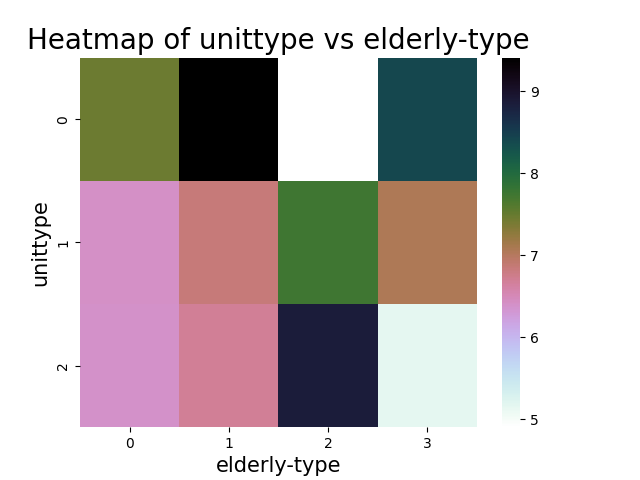
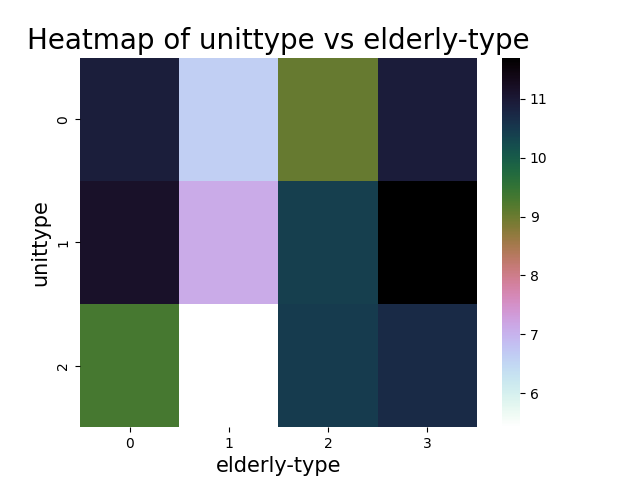
update b14508

diff --git a/b14508elderly_living_simulation/i1simulate_elder_with_bound.py b/b14508elderly_living_simulation/i1simulate_elder_with_bound.py
@@ -1,3 +1,4 @@
+
 import numpy as np
 import matplotlib.pyplot as plt
 import matplotlib.animation as animation
@@ -100,6 +101,8 @@ def all_walkable(generated_map):
 
 def single_turn(unittype, generated_map, oldman):
     walkables = all_walkable(generated_map)
+    # print('$'*20, walkables)
+    # print(len(walkables))
     # welcome = colored('#'*10+' This turn generated_map:'+'#'*10, 'red', attrs=['reverse', 'blink'])
     # print(welcome, '\n')
     print('-'*10, 'run new simulation turn', '-'*10, '\n')
@@ -107,19 +110,25 @@ def single_turn(unittype, generated_map, oldman):
     start_grid = Grid(2, 1)
     end_grid = Grid(2, 5)
     if oldman.behavior_type == 0 :
-        s = walkables[random.randint(0, len(walkables)/2)]
-        e = walkables[random.randint(len(walkables)/2, len(walkables)-1)]
+        s = walkables[random.randint(0, len(walkables)//2)]
+        e = walkables[random.randint(len(walkables)//2, len(walkables)-1)]
         start_grid = Grid(s[0], s[1])
         end_grid = Grid(e[0], e[1])   
     if oldman.behavior_type == 1:
-        s = walkables[random.randint(0, len(walkables)/2)]
-        e = walkables[random.randint(len(walkables)/2, len(walkables)-1)]
+        s = walkables[random.randint(0, len(walkables)//2)]
+        e = walkables[random.randint(len(walkables)//2, len(walkables)-1)]
         start_grid = Grid(s[0], s[1])
-        end_grid = Grid(2, 8)   
+        if random.randint(0, 4) > 2:
+            end_grid = Grid(beds[unittype][0], beds[unittype][1])
+        else:
+            end_grid = Grid(e[0], e[1]) 
     if oldman.behavior_type == 2:
-        s = walkables[random.randint(0, len(walkables)/2)]
-        e = walkables[random.randint(len(walkables)/2, len(walkables)-1)]
-        start_grid = Grid(beds[unittype][0], beds[unittype][1])
+        s = walkables[random.randint(0, len(walkables)//2)]
+        e = walkables[random.randint(len(walkables)//2, len(walkables)-1)]
+        if random.randint(0, 4) > 2:
+            start_grid = Grid(bathrooms[unittype][0], bathrooms[unittype][1])
+        else:
+            start_grid = Grid(s[0], s[1])
         end_grid = Grid(e[0], e[1]) 
     if oldman.behavior_type == 3 :
         s = walkables[random.randint(0, len(walkables)//3)]
@@ -170,7 +179,7 @@ def visual_to_png(res):
 def main():
 
 
-    simulate_num = 40
+    simulate_num = 160
 
     elderly_types = [None, None, None, None]
     # living room type
@@ -181,10 +190,10 @@ def main():
     类型四：家务型老人：以进行家务行为为主，占比较小。
 
     '''
-    elderly_types[0] = int(simulate_num * 0.7)
-    elderly_types[1] = int(simulate_num * 0.2)
-    elderly_types[2] = int(simulate_num * 0.05)
-    elderly_types[3] = int(simulate_num * 0.05)
+    elderly_types[0] = int(simulate_num * 0.25)
+    elderly_types[1] = int(simulate_num * 0.25)
+    elderly_types[2] = int(simulate_num * 0.25)
+    elderly_types[3] = int(simulate_num * 0.25)
 
     print('elderly_types=', elderly_types)
     mydict = {}
@@ -199,7 +208,7 @@ def main():
             for j in range(elderly_types[elderly_type]):
                 score = single_turn(i, generated_map, oldman)
                 scores.append(score)
-                time.sleep(random.uniform(0.1, 0.5))
+                # time.sleep(random.uniform(0.1, 0.5))
             mydict[i, elderly_type] = scores
 
     print('\n'*3)

diff --git a/b14508elderly_living_simulation/my_unittype.py b/b14508elderly_living_simulation/my_unittype.py
@@ -7,11 +7,22 @@ beds = []
 # 卫生间
 #---------------
 type_0 = [
-        [0, 0, 0, 0, 1, 0, 1, 1, 0],
-        [0, 0, 0, 0, 1, 0, 1, 1, 0],
-        [0, 0, 0, 0, 1, 0, 0, 0, 0],
-        [1, 1, 0, 0, 1, 0, 0, 0, 0],
-        [0, 0, 0, 0, 0, 0, 0, 1, 0],
+        [1, 1, 1, 1, 1, 1, 1, 1, 1, 1],
+        [1, 0, 0, 0, 1, 0, 0, 0, 0, 1],
+        [1, 0, 0, 0, 1, 0, 0, 0, 0, 1],
+        [1, 0, 0, 0, 0, 0, 0, 1, 1, 1],
+        [1, 0, 0, 0, 0, 0, 0, 1, 1, 1],
+		[1, 1, 1, 0, 1, 0, 0, 0, 0, 1],
+		[1, 0, 0, 0, 0, 0, 0, 1, 1, 1],
+		[1, 1, 0, 0, 0, 0, 0, 0, 0, 1],
+		[1, 1, 0, 0, 0, 0, 0, 0, 0, 1],
+		[1, 1, 0, 0, 0, 0, 0, 0, 0, 1],
+		[1, 1, 0, 0, 0, 0, 0, 0, 0, 1],
+		[1, 0, 0, 0, 0, 0, 0, 0, 0, 1],
+		[1, 0, 1, 0, 0, 0, 1, 0, 0, 1],
+		[1, 0, 1, 0, 0, 0, 1, 0, 0, 1],
+		[1, 0, 1, 0, 0, 0, 1, 0, 0, 1],
+		[1, 0, 1, 1, 1, 1, 1, 1, 1, 1],
     ]
 
 
@@ -21,13 +32,23 @@ type_0 = [
 # 		卫生间
 #---------------
 type_1 = [
-        [0, 0, 1, 0, 0, 0, 0, 1, 0],
-        [0, 0, 1, 0, 0, 0, 0, 1, 0],
-        [0, 0, 0, 0, 0, 0, 0, 0, 0],
-        [1, 0, 1, 0, 1, 0, 0, 0, 0],
-        [1, 0, 1, 0, 1, 0, 0, 1, 0],
+        [1, 1, 1, 1, 1, 1, 1, 1, 1, 1],
+        [1, 0, 0, 0, 0, 1, 0, 0, 0, 1],
+        [1, 0, 0, 0, 0, 1, 0, 0, 1, 1],
+        [1, 0, 0, 0, 0, 1, 0, 0, 1, 1],
+        [1, 0, 0, 0, 0, 1, 0, 0, 1, 1],
+		[1, 1, 1, 0, 1, 1, 0, 0, 1, 1],
+		[1, 1, 0, 0, 0, 1, 0, 0, 0, 1],
+		[1, 1, 0, 0, 0, 0, 0, 1, 1, 1],
+		[1, 1, 0, 0, 0, 0, 0, 1, 1, 1],
+		[1, 1, 0, 0, 0, 0, 0, 0, 0, 1],
+		[1, 0, 0, 1, 0, 0, 1, 0, 0, 1],
+		[1, 0, 0, 0, 0, 0, 1, 1, 1, 1],
+		[1, 0, 0, 0, 0, 0, 1, 0, 0, 1],
+		[1, 0, 0, 0, 0, 0, 0, 0, 0, 1],
+		[1, 0, 0, 0, 0, 0, 0, 0, 0, 1],
+		[1, 0, 0, 1, 1, 1, 1, 1, 1, 1],
     ]
-
 
 #--------------
 #  		厨房 - 餐厅/客厅   		
@@ -35,20 +56,31 @@ type_1 = [
 # 		卫生间
 #---------------
 type_2 = [
-        [0, 0, 1, 0, 0, 0, 0, 1, 0],
-        [0, 0, 1, 0, 0, 0, 0, 1, 0],
-        [0, 0, 0, 0, 0, 0, 0, 0, 0],
-        [0, 0, 1, 1, 1, 0, 0, 0, 0],
-        [1, 1, 1, 0, 0, 0, 0, 1, 0],
+        [1, 1, 1, 1, 1, 0, 1, 1, 1, 1],
+        [1, 0, 0, 0, 1, 0, 1, 0, 0, 1],
+        [1, 1, 1, 0, 1, 0, 0, 0, 0, 1],
+        [1, 1, 1, 0, 0, 0, 1, 1, 1, 1],
+        [1, 1, 1, 0, 0, 0, 1, 0, 0, 1],
+		[1, 1, 1, 0, 1, 0, 1, 0, 0, 1],
+		[1, 1, 0, 0, 0, 0, 1, 0, 0, 1],
+		[1, 1, 1, 1, 1, 0, 1, 1, 1, 1],
+		[1, 0, 0, 0, 0, 0, 0, 0, 0, 1],
+		[1, 1, 0, 0, 0, 0, 0, 0, 0, 1],
+		[1, 1, 0, 0, 0, 0, 0, 0, 1, 1],
+		[1, 1, 0, 0, 0, 0, 0, 0, 1, 1],
+		[1, 1, 0, 0, 0, 0, 0, 0, 1, 1],
+		[1, 0, 0, 0, 0, 0, 0, 0, 1, 1],
+		[1, 0, 0, 0, 0, 0, 0, 0, 0, 1],
+		[1, 1, 1, 1, 1, 1, 1, 1, 1, 1],
     ]
-
 
 unit_types.append(type_0)
 unit_types.append(type_1)
 unit_types.append(type_2)
-bathrooms.append([4, 0])
+
+bathrooms.append([13, 7])
+bathrooms.append([13, 8])
 bathrooms.append([4, 4])
-bathrooms.append([4, 4])
-beds.append([1, 6])
-beds.append([4, 0])
+beds.append([4, 7])
+beds.append([4, 8])
 beds.append([4, 0])
